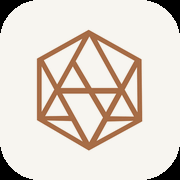
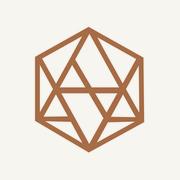
Add files via upload

diff --git a/ai-assistant.html b/ai-assistant.html
@@ -8,6 +8,12 @@
 <meta name="description" content="AAEL AI Pro，即時解答簡樸房認證、強制驗樓、屋宇署命令、僭建等香港樓宇查詢，並連結至相關知識庫文章。一般資訊參考，不構成專業意見。">
 <link rel="canonical" href="https://aael.online/ai-assistant.html">
 <link rel="icon" href="/favicon.png">
+<link rel="apple-touch-icon" href="/apple-touch-icon.png">
+<link rel="manifest" href="/manifest.json">
+<meta name="theme-color" content="#92491A">
+<meta name="apple-mobile-web-app-capable" content="yes">
+<meta name="apple-mobile-web-app-status-bar-style" content="black-translucent">
+<meta name="apple-mobile-web-app-title" content="AAEL AI Pro">
 <style>
 :root{
   /* light theme (default, matches homepage) */
@@ -148,6 +154,7 @@ gap:8px;font-size:.68rem;color:var(--dim)}
   </a>
   <span class="tag">AI Pro</span>
   <span class="spacer"></span>
+  <button class="hbtn" id="newChatBtn" style="display:none" onclick="clearConversation()" data-l="newChat"></button>
   <span class="quota-pill" id="quotaPill"></span>
   <div class="switches">
     <div class="lang" role="group" aria-label="Language">
@@ -195,6 +202,7 @@ const L = {
   navBack:    {en:'Home',                 zh:'返回主頁',                cn:'返回主页'},
   navKb:      {en:'Knowledge Base',       zh:'知識庫',                  cn:'知识库'},
   navContact: {en:'Contact Us',           zh:'聯絡我們',                cn:'联络我们'},
+  newChat:    {en:'New chat',              zh:'開始新對話',              cn:'开始新对话'},
   disclaimer: {
     en:'This page is AI-generated for general reference only, and does not <b>constitute professional or legal advice</b>. For case-specific matters, please contact us for an on-site assessment.',
     zh:'本頁內容由 AI 生成，僅供一般參考，<b>不構成專業或法律意見</b>。涉及個別個案，請聯絡我們作實地評估。',
@@ -269,6 +277,58 @@ const SAMPLES = [
 let currentLang = 'en';
 let hist = [];
 let lastQuota = null;
+
+/* ---------- 對話記錄持久化：留返俾訪客下次打開時繼續睇 ---------- */
+var STORAGE_KEY = 'aael-ai-conversation';
+var MAX_STORED_MSGS = 40; // 上限，避免 localStorage 無限增長
+
+function saveConversation(){
+  try{
+    var nodes = document.querySelectorAll('#log > .msg');
+    var renderLog = Array.prototype.slice.call(nodes).map(function(el){
+      return { role: el.classList.contains('me') ? 'user' : 'assistant', html: el.querySelector('.bub').innerHTML };
+    });
+    var payload = { hist: hist.slice(-MAX_STORED_MSGS), renderLog: renderLog.slice(-MAX_STORED_MSGS) };
+    localStorage.setItem(STORAGE_KEY, JSON.stringify(payload));
+  }catch(e){ /* localStorage 滿咗或者被封鎖，靜靜跳過，唔影響主功能 */ }
+}
+
+function loadConversation(){
+  try{
+    var raw = localStorage.getItem(STORAGE_KEY);
+    if(!raw) return false;
+    var payload = JSON.parse(raw);
+    if(!payload || !payload.renderLog || !payload.renderLog.length) return false;
+    hist = payload.hist || [];
+    var log = document.getElementById('log');
+    payload.renderLog.forEach(function(m){
+      var d = document.createElement('div');
+      d.className = 'msg ' + (m.role==='user' ? 'me' : 'ai');
+      var who = m.role==='user' ? L.who_user[currentLang] : L.who_ai[currentLang];
+      d.innerHTML = '<div class="who">'+who+'</div><div class="bub">'+m.html+'</div>';
+      log.appendChild(d);
+    });
+    document.getElementById('introBlock').style.display = 'none';
+    document.getElementById('chips').style.display = 'none';
+    document.getElementById('newChatBtn').style.display = '';
+    document.getElementById('main').scrollTop = 1e9;
+    return true;
+  }catch(e){ return false; }
+}
+
+function clearConversation(){
+  hist = [];
+  document.getElementById('log').innerHTML = '';
+  try{ localStorage.removeItem(STORAGE_KEY); }catch(e){}
+  document.getElementById('introBlock').style.display = '';
+  document.getElementById('chips').style.display = '';
+  document.getElementById('newChatBtn').style.display = 'none';
+  dailyLimitHit = false;
+  var qEl = document.getElementById('q');
+  qEl.disabled = false;
+  document.getElementById('send').disabled = false;
+  qEl.placeholder = L.placeholder[currentLang];
+}
 
 function esc(s){return s.replace(/[&<>"]/g,c=>({'&':'&amp;','<':'&lt;','>':'&gt;','"':'&quot;'}[c]));}
 function md(s){
@@ -407,6 +467,10 @@ async function send(){
     }).join('\u3000');
     var srcHtml = src ? '<div class="src">'+esc(L.srcPrefix[currentLang])+src+'</div>' : '';
     wait.querySelector('.bub').innerHTML=md(replyText)+srcHtml;
+    document.getElementById('introBlock').style.display = 'none';
+    document.getElementById('chips').style.display = 'none';
+    document.getElementById('newChatBtn').style.display = '';
+    saveConversation();
   }catch(e){
     wait.querySelector('.bub').innerHTML='<span style="color:var(--warn)">'+esc(L.errGeneric[currentLang])+'</span>';
     hist.pop();
@@ -432,7 +496,107 @@ qEl.addEventListener('input',function(){qEl.style.height='auto';qEl.style.height
   var savedLang = null;
   try{ savedLang = localStorage.getItem('aae-lang'); }catch(e){}
   setLang(savedLang || 'en');
+
+  loadConversation(); // 有已儲存嘅對話就攞返出嚟，冇就照舊顯示歡迎畫面
 })();
+</script>
+<!-- ============ PWA install banner ============ -->
+<div id="pwaBanner" class="pwa-banner" role="dialog" aria-label="Install app">
+  <div class="pwa-banner-icon"><img src="/icon-192.png" alt="AAEL" width="40" height="40"></div>
+  <div class="pwa-banner-txt">
+    <b><span class="en">Install AAEL AI Pro</span><span class="zh">安裝 AAEL AI Pro</span></b>
+    <span class="pwa-banner-sub" id="pwaBannerSub"></span>
+  </div>
+  <button class="pwa-banner-btn" id="pwaBannerBtn"></button>
+  <button class="pwa-banner-x" id="pwaBannerX" aria-label="Dismiss">✕</button>
+</div>
+
+<style>
+.pwa-banner{position:fixed;left:14px;right:14px;bottom:14px;z-index:120;display:none;
+align-items:center;gap:12px;padding:12px 14px;border-radius:16px;
+background:var(--panel,#12151C);border:1px solid var(--line,rgba(255,255,255,.12));
+box-shadow:0 14px 40px rgba(0,0,0,.35);backdrop-filter:blur(14px);
+font-family:var(--body,system-ui);max-width:420px;margin:0 auto}
+.pwa-banner.show{display:flex}
+.pwa-banner-icon img{border-radius:10px;display:block}
+.pwa-banner-txt{flex:1;display:flex;flex-direction:column;gap:2px;min-width:0}
+.pwa-banner-txt b{font-family:var(--display,var(--disp,inherit));font-size:.86rem;color:var(--txt,#EDEDEA)}
+.pwa-banner-sub{font-size:.72rem;color:var(--dim,#9AA0AC);line-height:1.4}
+.pwa-banner-btn{flex-shrink:0;padding:8px 14px;border:none;border-radius:8px;cursor:pointer;
+font-weight:700;font-size:.78rem;white-space:nowrap;
+background:linear-gradient(135deg,var(--accent,var(--acc,#CE8F5A)),var(--accent-deep,var(--acc-deep,#92491A)));
+color:var(--btn-txt,#0A0C11)}
+.pwa-banner-x{flex-shrink:0;background:none;border:none;color:var(--dim,#9AA0AC);
+font-size:1rem;cursor:pointer;padding:4px}
+@media(max-width:480px){.pwa-banner{left:10px;right:10px;bottom:10px;padding:11px 12px}
+.pwa-banner-sub{display:none}}
+</style>
+
+<script>
+(function(){
+  var DISMISS_KEY = 'aael-pwa-dismissed';
+  var banner = document.getElementById('pwaBanner');
+  var btn = document.getElementById('pwaBannerBtn');
+  var sub = document.getElementById('pwaBannerSub');
+  var xBtn = document.getElementById('pwaBannerX');
+  if(!banner) return;
+
+  function isZH(){ return document.body.classList.contains('lang-zh'); }
+  function isStandalone(){
+    return window.matchMedia('(display-mode: standalone)').matches
+      || window.navigator.standalone === true; // iOS legacy flag
+  }
+  function wasDismissed(){
+    try{ return localStorage.getItem(DISMISS_KEY) === '1'; }catch(e){ return false; }
+  }
+  function dismiss(){
+    banner.classList.remove('show');
+    try{ localStorage.setItem(DISMISS_KEY, '1'); }catch(e){}
+  }
+  xBtn.addEventListener('click', dismiss);
+
+  if (isStandalone() || wasDismissed()) return; // 已安裝或者用戶之前已經關咗，唔再顯示
+
+  var isIOS = /iP(hone|ad|od)/.test(navigator.userAgent) && !window.MSStream;
+  var deferredPrompt = null;
+
+  window.addEventListener('beforeinstallprompt', function(e){
+    e.preventDefault();
+    deferredPrompt = e;
+    sub.textContent = isZH() ? '加到主畫面，離線都可以睇知識庫' : 'Add to home screen — browse guides even offline';
+    btn.textContent = isZH() ? '安裝' : 'Install';
+    banner.classList.add('show');
+  });
+
+  btn.addEventListener('click', function(){
+    if (deferredPrompt) {
+      deferredPrompt.prompt();
+      deferredPrompt.userChoice.then(function(){ deferredPrompt = null; dismiss(); });
+    } else if (isIOS) {
+      // iOS Safari 冇 beforeinstallprompt，只可以引導手動安裝
+      alert(isZH()
+        ? '安裝方法：撳畫面下方分享圖示 → 揀「加入主畫面」'
+        : 'To install: tap the Share icon below → choose "Add to Home Screen"');
+    }
+  });
+
+  // iOS：3 秒後先顯示（避免一開站就彈，太突兀），並用手動安裝指引嘅字眼
+  if (isIOS) {
+    setTimeout(function(){
+      if (isStandalone() || wasDismissed()) return;
+      sub.textContent = isZH() ? '撳分享圖示 → 加入主畫面' : 'Tap Share → Add to Home Screen';
+      btn.textContent = isZH() ? '點樣安裝？' : 'How?';
+      banner.classList.add('show');
+    }, 3000);
+  }
+})();
+</script>
+<script>
+if("serviceWorker" in navigator){
+  window.addEventListener("load", function(){
+    navigator.serviceWorker.register("/sw.js").catch(function(e){ console.warn("SW registration failed", e); });
+  });
+}
 </script>
 </body>
 </html>

diff --git a/sw.js b/sw.js
@@ -1,0 +1,134 @@
+// AAEL AI Pro — Service Worker
+// 快取策略：
+//   · HTML 頁面（首頁、知識庫文章、AI Pro）— stale-while-revalidate：
+//     即時由快取回應（快、可離線），同時背景更新快取，下次造訪自動較新
+//   · /api/ 底下所有請求 — 永遠唔快取，直接連網絡（AI 回應必須係即時、真實）
+//   · 圖片／字型／圖示 — cache-first：呢類檔案幾乎唔會變，長期快取慳流量
+//
+// 版本號：每次有實質內容更新，記得改呢個字串，令舊裝置嘅 service worker
+// 知道要換一批新快取，而唔係永遠沿用舊版本。
+const CACHE_VERSION = 'aael-pwa-v1';
+const STATIC_CACHE = CACHE_VERSION + '-static';
+const PAGES_CACHE = CACHE_VERSION + '-pages';
+
+// 安裝時預先快取嘅「App Shell」—— 令訪客第一次用完之後，即使冇網絡，
+// 都可以打開已經開過或者預載嘅頁面，包括全部 33 篇知識庫文章。
+const PRECACHE_URLS = [
+  '/',
+  '/index.html',
+  '/ai-assistant.html',
+  '/manifest.json',
+  '/icon-192.png',
+  '/icon-512.png',
+  '/icon-maskable-192.png',
+  '/icon-maskable-512.png',
+  '/apple-touch-icon.png',
+  '/favicon.png',
+  "/guide-bd-codes-of-practice.html",
+  "/guide-bd-order.html",
+  "/guide-bhu-enforcement.html",
+  "/guide-bhu-meters.html",
+  "/guide-bhu-rejection.html",
+  "/guide-bhu-renewal.html",
+  "/guide-bhu-standards.html",
+  "/guide-bhu-timeline.html",
+  "/guide-buildings-ordinance.html",
+  "/guide-dmc.html",
+  "/guide-fsd-direction.html",
+  "/guide-fsd-licensing.html",
+  "/guide-handover-inspection.html",
+  "/guide-hyd-hoarding-permit.html",
+  "/guide-industrial.html",
+  "/guide-leakage.html",
+  "/guide-mbis.html",
+  "/guide-minor-works.html",
+  "/guide-mwis.html",
+  "/guide-oc-tender.html",
+  "/guide-pre-purchase.html",
+  "/guide-restaurant-licence.html",
+  "/guide-rooftop-ubw.html",
+  "/guide-spalling.html",
+  "/guide-specified-professional.html",
+  "/guide-structural-wall.html",
+  "/guide-subsidy.html",
+  "/guide-survey-report.html",
+  "/guide-swd-rche-licensing.html",
+  "/guide-td-parking-tia.html",
+  "/guide-ubw.html",
+  "/guide-wsd-plumbing.html",
+  "/certification-partners.html",
+];
+
+self.addEventListener('install', event => {
+  self.skipWaiting();
+  event.waitUntil(
+    caches.open(PAGES_CACHE).then(cache =>
+      // 逐個 add，某一個失敗（例如日後刪走咗某篇文章）唔會累成個安裝失敗
+      Promise.allSettled(PRECACHE_URLS.map(url => cache.add(url)))
+    )
+  );
+});
+
+self.addEventListener('activate', event => {
+  event.waitUntil(
+    caches.keys().then(keys =>
+      Promise.all(
+        keys
+          .filter(k => k.startsWith('aael-pwa-') && k !== STATIC_CACHE && k !== PAGES_CACHE)
+          .map(k => caches.delete(k))
+      )
+    ).then(() => self.clients.claim())
+  );
+});
+
+function isApiRequest(url) {
+  return url.pathname.startsWith('/api/');
+}
+
+function isStaticAsset(url) {
+  return /\.(png|jpg|jpeg|webp|svg|ico|woff2?|ttf)$/i.test(url.pathname);
+}
+
+function isHtmlOrRoot(request, url) {
+  return request.mode === 'navigate' || /\.html$/i.test(url.pathname) || url.pathname === '/';
+}
+
+self.addEventListener('fetch', event => {
+  const req = event.request;
+  if (req.method !== 'GET') return; // POST（例如 /api/chat）一律直接放行，唔攔截
+  const url = new URL(req.url);
+  if (url.origin !== self.location.origin) return; // 外部資源（字型 CDN 等）唔處理
+
+  // /api/ 永遠唔快取 —— AI 回應、每日名額都必須係即時數據
+  if (isApiRequest(url)) return;
+
+  if (isStaticAsset(url)) {
+    // cache-first：圖示、字型呢類靜態資源幾乎唔變
+    event.respondWith(
+      caches.match(req).then(cached => cached || fetch(req).then(res => {
+        const copy = res.clone();
+        caches.open(STATIC_CACHE).then(c => c.put(req, copy));
+        return res;
+      }).catch(() => cached))
+    );
+    return;
+  }
+
+  if (isHtmlOrRoot(req, url)) {
+    // stale-while-revalidate：先用快取即時顯示，背景靜靜update，
+    // 令離線都睇到嘢，返嚟有網絡又自動變返最新版本
+    event.respondWith(
+      caches.open(PAGES_CACHE).then(async cache => {
+        const cached = await cache.match(req);
+        const networkFetch = fetch(req).then(res => {
+          if (res && res.ok) cache.put(req, res.clone());
+          return res;
+        }).catch(() => null);
+        return cached || (await networkFetch) || new Response(
+          '<h1>離線中</h1><p>暫時無法連接，請檢查網絡連線後重試。</p>',
+          { headers: { 'Content-Type': 'text/html; charset=utf-8' } }
+        );
+      })
+    );
+  }
+});
